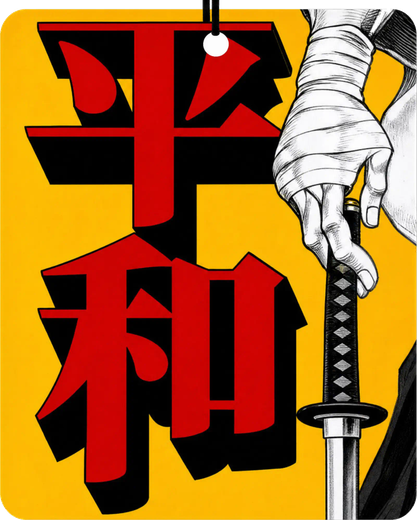
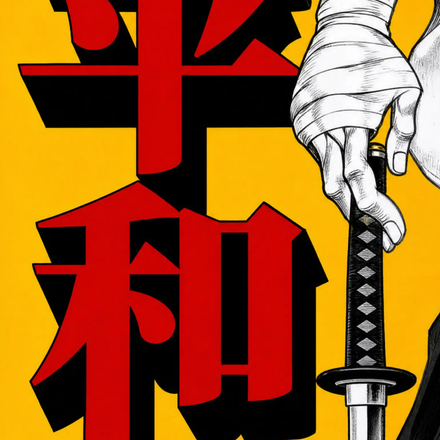
feat(home): blind-box promo shows 5 random string-free uniform tags
Re-bake all 8 tag images as uniform 440² square crops with the hanging
string removed. Promo now shows 5 of them, re-shuffled on each mount.
Card switches to a column layout so the 5-tag fan fits the phone width.

diff --git a/components/home/FragranceBlindBox.tsx b/components/home/FragranceBlindBox.tsx
@@ -1,3 +1,4 @@
+import { useMemo } from 'react';
 import { Image } from 'expo-image';
 import { Pressable, Text, View } from 'react-native';
 import { LinearGradient } from 'expo-linear-gradient';
@@ -8,20 +9,39 @@ import { T, TYPE, RADIUS } from '@/constants/theme';
 // Limited-time campaign card: "Buy 2 drinks, get a fragrance-tag blind
 // box." Marketing only — the blind box is handed out in-store, so this
 // just links to the menu. Mirrors DailySpecial's peach-gradient treatment.
-// Shown to everyone (no auth gate); gated in index.tsx by
-// FRAGRANCE_BLIND_BOX_PROMO — flip that to retire it.
+// Gated in index.tsx by FRAGRANCE_BLIND_BOX_PROMO.
+//
+// Tags are uniform background-removed, string-stripped square crops. We
+// show 5 of the 10 designs, re-shuffled each time the screen mounts.
 
-// Background-removed cut-outs so each hanging tag shows in full on the
-// gradient. w/h preserve each tag's aspect ratio; laid out as a left→right
-// fan (negative marginLeft for a slight overlap) so all three read clearly.
-const TAGS = [
-  { src: require('@/assets/promo/fragrance-tags/black-opium.png'), w: 94, h: 117, rotate: '-10deg', ml: 0, z: 1 },
-  { src: require('@/assets/promo/fragrance-tags/ocean.png'), w: 75, h: 117, rotate: '0deg', ml: -16, z: 3 },
-  { src: require('@/assets/promo/fragrance-tags/crisp-apple.png'), w: 105, h: 117, rotate: '10deg', ml: -16, z: 2 },
-] as const;
+const POOL = [
+  require('@/assets/promo/fragrance-tags/black-opium.png'),
+  require('@/assets/promo/fragrance-tags/cedarwood.png'),
+  require('@/assets/promo/fragrance-tags/cherry.png'),
+  require('@/assets/promo/fragrance-tags/crisp-apple.png'),
+  require('@/assets/promo/fragrance-tags/freesia.png'),
+  require('@/assets/promo/fragrance-tags/ocean.png'),
+  require('@/assets/promo/fragrance-tags/rose.png'),
+  require('@/assets/promo/fragrance-tags/sandalwood.png'),
+];
+
+const SHOW = 5;
+const TILE = 62;
+const ROT = ['-16deg', '-8deg', '0deg', '8deg', '16deg'];
+const Z = [1, 2, 3, 2, 1];
+
+function shuffle<T>(arr: T[]): T[] {
+  const a = [...arr];
+  for (let i = a.length - 1; i > 0; i--) {
+    const j = Math.floor(Math.random() * (i + 1));
+    [a[i], a[j]] = [a[j], a[i]];
+  }
+  return a;
+}
 
 export function FragranceBlindBox() {
   const router = useRouter();
+  const tags = useMemo(() => shuffle(POOL).slice(0, SHOW), []);
 
   return (
     <View style={{ paddingHorizontal: 16, marginBottom: 20 }}>
@@ -39,105 +59,101 @@ export function FragranceBlindBox() {
             borderWidth: 1,
             borderColor: 'rgba(141,85,36,0.12)',
             padding: 22,
-            minHeight: 180,
-            flexDirection: 'row',
             overflow: 'hidden',
           }}
         >
-          <View style={{ flex: 1, paddingRight: 6, justifyContent: 'space-between' }}>
-            <View>
-              <View
-                style={{
-                  alignSelf: 'flex-start',
-                  paddingHorizontal: 9,
-                  paddingVertical: 3,
-                  borderRadius: 4,
-                  backgroundColor: T.ink,
-                }}
-              >
-                <Text
-                  style={{
-                    fontFamily: 'JetBrainsMono_700Bold',
-                    fontSize: 10,
-                    letterSpacing: 1.3,
-                    color: T.cream,
-                  }}
-                >
-                  LIMITED · WHILE STOCKS LAST
-                </Text>
-              </View>
-              <Text
-                style={{
-                  marginTop: 10,
-                  fontFamily: 'Fraunces_500Medium',
-                  fontSize: 24,
-                  lineHeight: 26,
-                  letterSpacing: -0.5,
-                  color: T.ink,
-                }}
-              >
-                {'2 drinks,\n'}
-                <Text style={{ fontFamily: 'Fraunces_500Medium', fontStyle: 'italic' }}>
-                  one surprise
-                </Text>
-              </Text>
-              <Text
-                style={[TYPE.body, { marginTop: 8, color: T.ink2, lineHeight: 18, maxWidth: 185 }]}
-              >
-                Buy any 2 drinks, get a fragrance-tag blind box — 10 designs, 10 scents.
-              </Text>
-            </View>
-
+          <View>
             <View
               style={{
                 alignSelf: 'flex-start',
-                marginTop: 14,
-                flexDirection: 'row',
-                alignItems: 'center',
-                gap: 6,
-                paddingHorizontal: 14,
-                paddingVertical: 8,
-                borderRadius: 999,
-                backgroundColor: T.brand,
+                paddingHorizontal: 9,
+                paddingVertical: 3,
+                borderRadius: 4,
+                backgroundColor: T.ink,
               }}
             >
-              <Text style={{ fontFamily: 'Inter_500Medium', fontSize: 13, color: T.cream }}>
-                Order now
+              <Text
+                style={{
+                  fontFamily: 'JetBrainsMono_700Bold',
+                  fontSize: 10,
+                  letterSpacing: 1.3,
+                  color: T.cream,
+                }}
+              >
+                LIMITED · WHILE STOCKS LAST
               </Text>
-              <Icon name="arrow" color={T.cream} size={12} />
             </View>
+            <Text
+              style={{
+                marginTop: 10,
+                fontFamily: 'Fraunces_500Medium',
+                fontSize: 24,
+                lineHeight: 26,
+                letterSpacing: -0.5,
+                color: T.ink,
+              }}
+            >
+              {'2 drinks, '}
+              <Text style={{ fontFamily: 'Fraunces_500Medium', fontStyle: 'italic' }}>
+                one surprise
+              </Text>
+            </Text>
+            <Text style={[TYPE.body, { marginTop: 8, color: T.ink2, lineHeight: 18 }]}>
+              Buy any 2 drinks, get a fragrance-tag blind box — 10 designs, 10 scents.
+            </Text>
           </View>
 
-          {/* Fanned blind-box teaser — 3 hanging tags, background removed
-              so each shows in full, fanned left→right on the gradient. */}
+          {/* Blind-box teaser — 5 random uniform tags, fanned. */}
           <View
             style={{
               flexDirection: 'row',
               alignItems: 'flex-end',
-              alignSelf: 'center',
+              justifyContent: 'center',
+              marginTop: 18,
             }}
           >
-            {TAGS.map((t, i) => (
+            {tags.map((src, i) => (
               <View
                 key={i}
                 style={{
-                  marginLeft: t.ml,
-                  zIndex: t.z,
-                  transform: [{ rotate: t.rotate }],
+                  marginLeft: i === 0 ? 0 : -20,
+                  zIndex: Z[i],
+                  transform: [{ rotate: ROT[i] }],
+                  borderRadius: 12,
+                  backgroundColor: '#fff',
                   shadowColor: 'rgba(42,30,20,1)',
-                  shadowOpacity: 0.28,
-                  shadowOffset: { width: 0, height: 6 },
-                  shadowRadius: 8,
+                  shadowOpacity: 0.26,
+                  shadowOffset: { width: 0, height: 5 },
+                  shadowRadius: 7,
                   elevation: 5,
                 }}
               >
                 <Image
-                  source={t.src}
-                  style={{ width: t.w, height: t.h }}
-                  contentFit="contain"
+                  source={src}
+                  style={{ width: TILE, height: TILE, borderRadius: 12 }}
+                  contentFit="cover"
                 />
               </View>
             ))}
+          </View>
+
+          <View
+            style={{
+              alignSelf: 'center',
+              marginTop: 18,
+              flexDirection: 'row',
+              alignItems: 'center',
+              gap: 6,
+              paddingHorizontal: 16,
+              paddingVertical: 9,
+              borderRadius: 999,
+              backgroundColor: T.brand,
+            }}
+          >
+            <Text style={{ fontFamily: 'Inter_500Medium', fontSize: 13, color: T.cream }}>
+              Order now
+            </Text>
+            <Icon name="arrow" color={T.cream} size={12} />
           </View>
         </LinearGradient>
       </Pressable>
